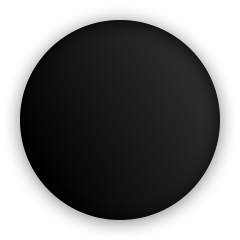
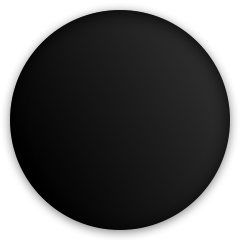
Reduce board dimensions

Changed region(s): [[0.0292, 0.0292, 0.9917, 0.9917]]

diff --git a/css/style.css b/css/style.css
@@ -3,7 +3,7 @@ body {
 	background-image: url('../img/bg.jpg');
 	background-position: center;
 	font-family: 'Futura', 'Menlo', 'Monaco', 'Helvetica', 'Arial';
-	margin: 1.8% auto 0 auto;
+	margin: 1.4% auto 0 auto;
 }
 
 #board {
@@ -16,10 +16,10 @@ body {
 }
 
 .square {
-	width: 72px;
-	height: 72px;
-	min-width: 72px;
-	min-height: 72px;
+	width: 66px;
+	height: 66px;
+	min-width: 66px;
+	min-height: 66px;
 	text-align: center;
 	padding: 0;
 	border: 1px solid rgba(0, 0, 0, 0.32);
@@ -46,7 +46,6 @@ body {
 img.black, img.white {
 	position: relative;
 	top: 3px;
-	left: 1px;
-	width: 67px;
-	height: 67px;
+	width: 60px;
+	height: 60px;
 }
